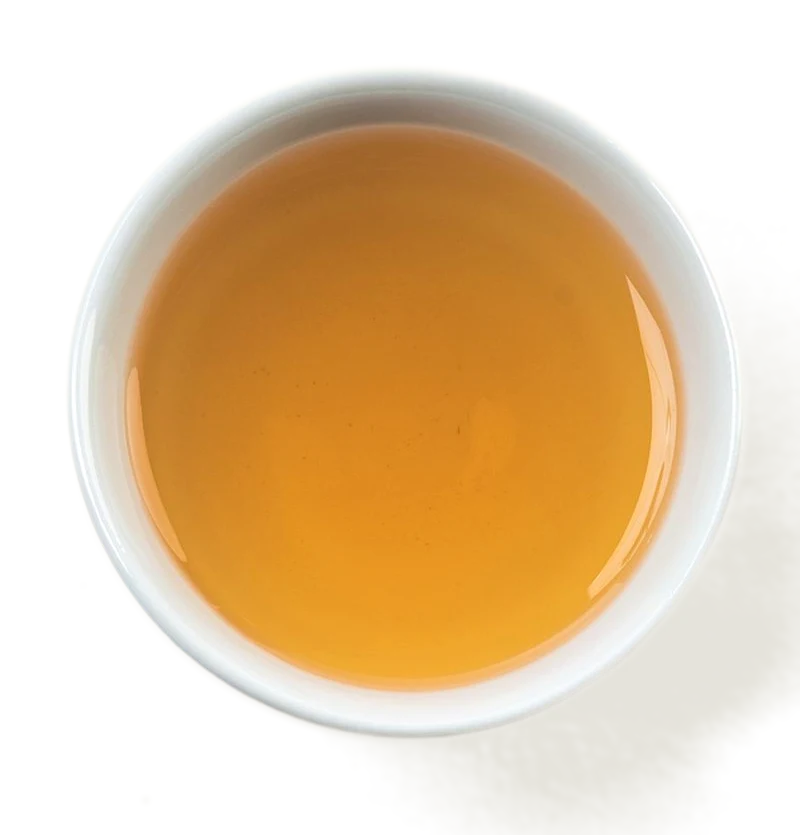
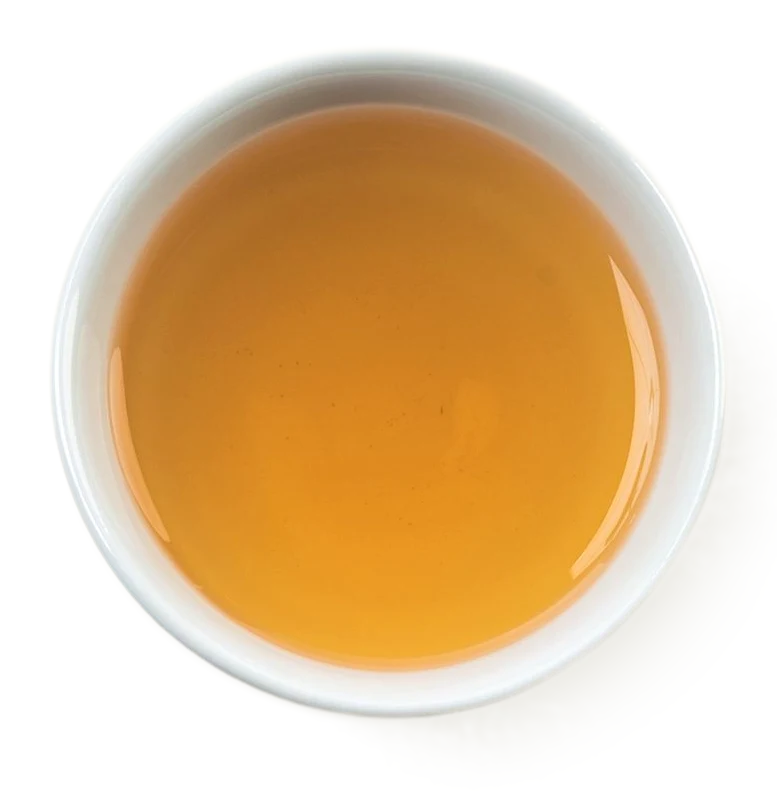
Cutout v7: proximity shadows, crisper packs, re-matted piles; nav + CTA fixes
- cup cutouts: shadow now constrained to subject proximity — kills the
  box-shaped background remnant on all four cups
- sejak/artemisia pouches: tight shadow + brightness lift to match the
  presence of the hwangto/persimmon packs (they were wrapped in a 20%
  translucent haze that read as over-blended)
- persimmon/hwangto piles re-matted with u2net (v5 white glow), reframed
  to the approved shelf proportions
- nav shop dropdown: nowrap so Korean names stay on one line
- hero CTAs reordered: Learn (ghost) before Enter the Shop (solid)

diff --git a/koyo-site/index.html b/koyo-site/index.html
@@ -105,8 +105,8 @@
       <p class="hero-def mono" data-hero>ko·yo&nbsp;&nbsp;<em>n.</em>&nbsp;&nbsp;the Korean word for stillness</p>
       <h1 class="hero-title mono" data-hero>STILLNESS&nbsp;&nbsp;GUIDES&nbsp;&nbsp;PURPOSE</h1>
       <div class="hero-cta" data-hero>
-        <a class="btn btn-solid" href="shop.html" data-cursor data-magnetic>Enter the Shop</a>
         <a class="btn btn-ghost" href="#specimen" data-cursor data-magnetic>Learn</a>
+        <a class="btn btn-solid" href="shop.html" data-cursor data-magnetic>Enter the Shop</a>
       </div>
 
       <p class="hero-side mono" data-hero>EST. 2019 — HADONG, SOUTH KOREA</p>

diff --git a/koyo-site/css/style.css b/koyo-site/css/style.css
@@ -223,6 +223,7 @@ main { position: relative; z-index: 1; }
   align-items: baseline;
   justify-content: space-between;
   gap: 1.6rem;
+  white-space: nowrap;
   padding: 0.55rem 1.4rem;
   font-family: var(--serif);
   font-size: 1.08rem;
